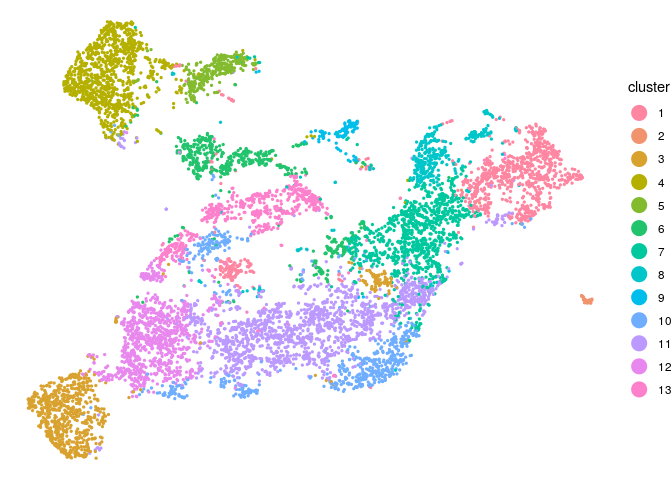
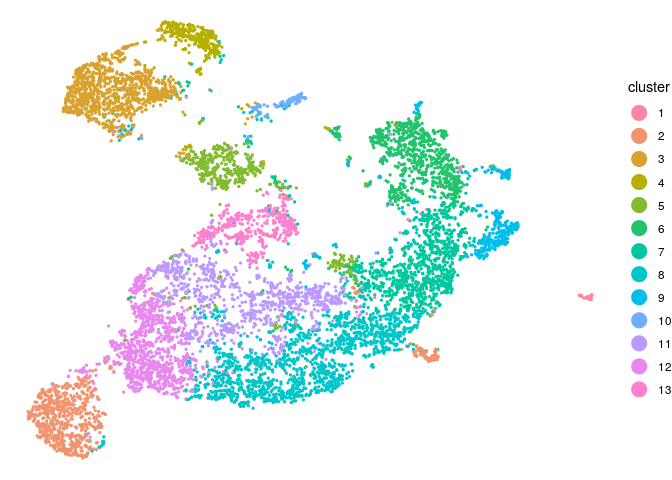
reran tutorials with optional normalization

diff --git a/examples/mapping_tutorial.md b/examples/mapping_tutorial.md
@@ -114,9 +114,11 @@ Clean and normalize CITE-seq protein expression
 
 We follow a similar approach for removing noise in the CITE-seq protein expression as we used for the CODEX data. We fit a negative binomial mixture model to the expression counts of each protein, then take the signal expression as the cumulative probability according to the Negative Binomial with the higher median.
 
+The resulting probability can then optionally be divided by the total protein expression counts per cell to reduce artifacts caused by differing cell sizes. If the *normalize* parameter is set to FALSE, this step will be skipped.
+
 ``` r
 # This will take around 10 minutes
-stvea_object <- CleanCITE(stvea_object, num_cores=8)
+stvea_object <- CleanCITE(stvea_object, num_cores=8, normalize=TRUE)
 ```
 
 Fitting a negative binomial model required raw counts for the protein expression data, so batch correction may optionally be performed after the noise cleaning step. To do so, use a separate batch correction algorithm, such as mnnCorrect from Haghverdi et al. (<https://www.nature.com/articles/nbt.4091>) on the stvea\_object@cite\_clean matrix, then set stvea\_object@cite\_clean to be the corrected output of that algorithm. The rest of the STvEA mapping algorithm will work best if the protein expression values after batch correction are rescaled to \[0,1\].
@@ -127,7 +129,7 @@ Cluster CITE-seq cells based on mRNA expression
 We use UMAP to compute a 2 dimensional embedding of the CITE-seq mRNA latent space for later visualization.
 
 ``` r
-stvea_object <- GetUmapCITE(stvea_object, n_neighbors = 50, min_dist=0.1, negative_sample_rate=50)
+stvea_object <- GetUmapCITE(stvea_object, metric = 'pearson', n_neighbors = 50, min_dist=0.1, negative_sample_rate=50)
 ```
 
 We cluster the CITE-seq cells based on their mRNA expression using a consensus of HDBSCAN clusterings. First, we run UMAP on the CITE-seq latent space to the same number of dimensions (running UMAP before density based clustering is suggested in the UMAP documentation <https://umap-learn.readthedocs.io/en/latest/clustering.html>). We perform a scan over the two parameters of the Python HDBSCAN implementation, min\_cluster\_size and min\_samples (more information on selecting these paramters <https://hdbscan.readthedocs.io/en/latest/parameter_selection.html>).
@@ -135,7 +137,8 @@ We cluster the CITE-seq cells based on their mRNA expression using a consensus o
 ``` r
 stvea_object <- ParameterScan(stvea_object, min_cluster_size_range = seq(5,20,4),
                               min_sample_range = seq(10,40,3), n_neighbors=50,
-                              min_dist=0.1, negative_sample_rate=50)
+                              min_dist=0.1, negative_sample_rate=50,
+                              metric = 'pearson')
 ```
 
     ## Running UMAP on the CITE-seq latent space
@@ -146,8 +149,8 @@ stvea_object <- ParameterScan(stvea_object, min_cluster_size_range = seq(5,20,4)
 We create a dissimilarity matrix between cells as the number of HDBSCAN clusterings (passing a certain silhouette cutoff) in which they are assigned to the same cluster. The final consensus clusters are an agglomerative clustering on this dissimilarity matrix using Python's scipy.cluster.hierarchy, cutting the tree using the inconsistent value. We remove all clusters that have fewer than 10 cells, caused by the cells that HDBSCAN did not assign to any cluster.
 
 ``` r
-stvea_object <- ConsensusCluster(stvea_object, silhouette_cutoff = 0.1,
-                                 inconsistent_value = 0.3, min_cluster_size = 10)
+stvea_object <- ConsensusCluster(stvea_object, silhouette_cutoff = 0.114,
+                                 inconsistent_value = 0.1, min_cluster_size = 10)
 ```
 
 Cluster CODEX cells based on protein expression
@@ -269,8 +272,8 @@ Since we are computing the Adjacency Score of every combination of features (clu
 protein_adj <- AdjScoreProteins(stvea_object, k=3, num_cores=8)
 ```
 
-    ## Creating permutation matrices - 10.027 seconds
-    ## Computing adjacency score for each feature pair - 39.559 seconds
+    ## Creating permutation matrices - 8.402 seconds
+    ## Computing adjacency score for each feature pair - 38.914 seconds
 
 ``` r
 AdjScoreHeatmap(protein_adj)
@@ -294,8 +297,8 @@ for (gene in gene_list) {
 gene_adj <- AdjScoreGenes(stvea_object, gene_pairs,  k=3, num_cores=8)
 ```
 
-    ## Creating permutation matrices - 7.954 seconds
-    ## Computing adjacency score for each feature pair - 45.2 seconds
+    ## Creating permutation matrices - 7.411 seconds
+    ## Computing adjacency score for each feature pair - 45.769 seconds
 
 ``` r
 AdjScoreHeatmap(gene_adj)
@@ -312,7 +315,7 @@ codex_cluster_adj <- AdjScoreClustersCODEX(stvea_object, k=3)
 ```
 
     ## Creating permutation matrices - 0.009 seconds
-    ## Computing adjacency score for each feature pair - 0.487 seconds
+    ## Computing adjacency score for each feature pair - 0.455 seconds
 
 ``` r
 AdjScoreHeatmap(codex_cluster_adj)
@@ -325,14 +328,6 @@ AdjScoreHeatmap(codex_cluster_adj)
 These mapped cluster assignments are not mutually exclusive like the ones above, since the uncertainty in the mapping and similar cluster expression patterns require that we assign each cell to a proportion of clusters, not just one. Therefor we cannot use the speedup mentioned above.
 
 ``` r
-cite_cluster_adj <- AdjScoreClustersCITE(stvea_object, k=3, num_cores=8)
+#cite_cluster_adj <- AdjScoreClustersCITE(stvea_object, k=3, num_cores=8)
+#AdjScoreHeatmap(cite_cluster_adj)
 ```
-
-    ## Creating permutation matrices - 7.832 seconds
-    ## Computing adjacency score for each feature pair - 27.433 seconds
-
-``` r
-AdjScoreHeatmap(cite_cluster_adj)
-```
-
-![](mapping_tutorial_files/figure-markdown_github/unnamed-chunk-28-1.png)

diff --git a/examples/seurat_tutorial.md b/examples/seurat_tutorial.md
@@ -104,9 +104,11 @@ Clean and normalize CITE-seq protein expression
 
 We follow a similar approach for removing noise in the CITE-seq protein expression as we used for the CODEX data. We fit a negative binomial mixture model to the expression counts of each protein, then take the signal expression as the cumulative probability according to the Negative Binomial with the higher median.
 
+The resulting probability can then optionally be divided by the total protein expression counts per cell to reduce artifacts caused by differing cell sizes. If the *normalize* parameter is set to FALSE, this step will be skipped.
+
 ``` r
 # This will take around 10 minutes
-stvea_object <- CleanCITE(stvea_object, num_cores=8)
+stvea_object <- CleanCITE(stvea_object, num_cores=8, normalize=TRUE)
 ```
 
 Cluster CODEX cells based on protein expression
@@ -228,8 +230,8 @@ Since we are computing the Adjacency Score of every combination of features (clu
 protein_adj <- AdjScoreProteins(stvea_object, k=3, num_cores=8)
 ```
 
-    ## Creating permutation matrices - 9.853 seconds
-    ## Computing adjacency score for each feature pair - 38.717 seconds
+    ## Creating permutation matrices - 8.417 seconds
+    ## Computing adjacency score for each feature pair - 40.876 seconds
 
 ``` r
 AdjScoreHeatmap(protein_adj)
@@ -253,8 +255,8 @@ for (gene in gene_list) {
 gene_adj <- AdjScoreGenes(stvea_object, gene_pairs,  k=3, num_cores=8)
 ```
 
-    ## Creating permutation matrices - 9.94 seconds
-    ## Computing adjacency score for each feature pair - 47.949 seconds
+    ## Creating permutation matrices - 7.523 seconds
+    ## Computing adjacency score for each feature pair - 47.82 seconds
 
 ``` r
 AdjScoreHeatmap(gene_adj)
@@ -271,7 +273,7 @@ codex_cluster_adj <- AdjScoreClustersCODEX(stvea_object, k=3)
 ```
 
     ## Creating permutation matrices - 0.009 seconds
-    ## Computing adjacency score for each feature pair - 0.987 seconds
+    ## Computing adjacency score for each feature pair - 0.433 seconds
 
 ``` r
 AdjScoreHeatmap(codex_cluster_adj)
@@ -287,8 +289,8 @@ These mapped cluster assignments are not mutually exclusive like the ones above,
 cite_cluster_adj <- AdjScoreClustersCITE(stvea_object, k=3, num_cores=8)
 ```
 
-    ## Creating permutation matrices - 5.321 seconds
-    ## Computing adjacency score for each feature pair - 17.151 seconds
+    ## Creating permutation matrices - 6.669 seconds
+    ## Computing adjacency score for each feature pair - 17.144 seconds
 
 ``` r
 AdjScoreHeatmap(cite_cluster_adj)
